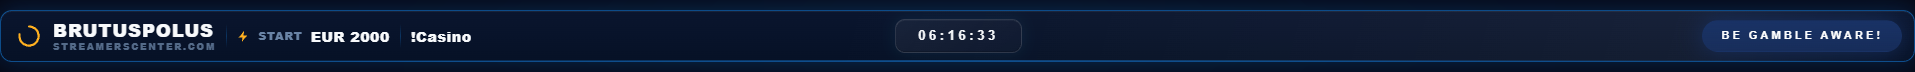
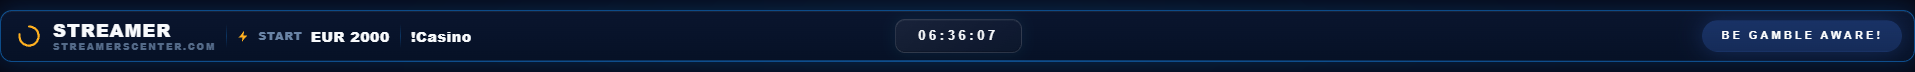
Refresh streamer widget screenshots

Changed region(s): [[0.0308, 0.3333, 0.1232, 0.5278], [0.493, 0.4167, 0.5238, 0.5556]]

diff --git a/src/components/OverlayCenter/editor/betterWidgetRegistry.jsx b/src/components/OverlayCenter/editor/betterWidgetRegistry.jsx
@@ -29,58 +29,76 @@ const MAX_OPACITY = 1;
 
 const MOCK_BONUSES = [
   {
-    id: "mock-wolf-gold",
-    slotName: "Wolf Gold",
+    id: "bdecf4b4-286a-46ac-b996-5a2fd8b0c45e",
+    slotName: "Gates Of Olympus 1000",
     imageUrl:
-      "https://images-cdn.softswiss.net/i/s2/pragmaticplay/WolfGold.png",
+      "https://encrypted-tbn0.gstatic.com/images?q=tbn:ANd9GcQ0dAEPtED0iG7rSoXV5PZhSEuuc_9oKLWyGPa-CscWrg&s=10",
     betSize: 4,
     payout: 136,
     opened: true,
     slot: {
       provider: "Pragmatic Play",
-      image: "https://images-cdn.softswiss.net/i/s2/pragmaticplay/WolfGold.png",
+      image:
+        "https://encrypted-tbn0.gstatic.com/images?q=tbn:ANd9GcQ0dAEPtED0iG7rSoXV5PZhSEuuc_9oKLWyGPa-CscWrg&s=10",
+      rtp: 96.5,
+      volatility: "high",
+      max_win_multiplier: 15000,
     },
   },
   {
-    id: "mock-medusa",
-    slotName: "Medusas Madness",
+    id: "fd03f022-8afe-43ca-b804-b49113445aff",
+    slotName: "Le Bandit",
     imageUrl:
-      "https://images-cdn.softswiss.net/i/s2/playngo/MedusasMadness.png",
+      "https://d1i1wfn7hj3mva.cloudfront.net/media/images/slots/portrait/hs/webp/hs-le-bandit.webp",
     betSize: 5,
-    payout: 0,
+    payout: 1840,
     opened: false,
     slot: {
-      provider: "Play'n GO",
-      image: "https://images-cdn.softswiss.net/i/s2/playngo/MedusasMadness.png",
+      id: "fd03f022-8afe-43ca-b804-b49113445aff",
+      name: "Le Bandit",
+      provider: "Hacksaw Gaming",
+      image:
+        "https://d1i1wfn7hj3mva.cloudfront.net/media/images/slots/portrait/hs/webp/hs-le-bandit.webp",
+      rtp: 96.34,
+      volatility: "medium",
+      max_win_multiplier: 10000,
     },
   },
   {
-    id: "mock-gates",
-    slotName: "Gates of Olympus",
+    id: "839997ff-344a-448c-876a-19c0c869ac49",
+    slotName: "Wanted Dead or a Wild",
     imageUrl:
-      "https://images-cdn.softswiss.net/i/s2/pragmaticplay/GatesOfOlympus1000.png",
+      "https://mediumrare.imgix.net/2c04ff5694af0adf12b483a79567814407c1a4fc943b4d1980f84367a1910874?q=85",
     betSize: 6,
     payout: 312,
     opened: true,
     isSuperBonus: true,
     slot: {
-      provider: "Pragmatic Play",
+      provider: "Hacksaw Gaming",
       image:
-        "https://images-cdn.softswiss.net/i/s2/pragmaticplay/GatesOfOlympus1000.png",
+        "https://mediumrare.imgix.net/2c04ff5694af0adf12b483a79567814407c1a4fc943b4d1980f84367a1910874?q=85",
+      rtp: 96.38,
+      volatility: "very_high",
+      max_win_multiplier: 12500,
     },
   },
   {
-    id: "mock-sugar",
-    slotName: "Sugar Rush 1000",
+    id: "033fb7ba-f0ed-4582-9bdf-cad4d242ed5d",
+    slotName: "Sweet Bonanza 1000",
     imageUrl:
-      "https://images-cdn.softswiss.net/i/s2/pragmaticplay/SugarRush1000.png",
+      "https://mediumrare.imgix.net/a77d914f12935f85ca574c3b52989b13cb48901ab8c55bdf326e1f2a177cbd97?&dpr=2&format=auto&auto=format&q=50",
     betSize: 3,
     payout: 0,
     opened: false,
     slot: {
+      id: "033fb7ba-f0ed-4582-9bdf-cad4d242ed5d",
+      name: "Sweet Bonanza 1000",
       provider: "Pragmatic Play",
       image:
-        "https://images-cdn.softswiss.net/i/s2/pragmaticplay/SugarRush1000.png",
+        "https://mediumrare.imgix.net/a77d914f12935f85ca574c3b52989b13cb48901ab8c55bdf326e1f2a177cbd97?&dpr=2&format=auto&auto=format&q=50",
+      rtp: 95.52,
+      volatility: "high",
+      max_win_multiplier: 25000,
     },
   },
 ];
@@ -147,9 +165,9 @@ const MOCK_WIDGET_CONFIGS = {
           player1: "Sofia",
           player2: "Rafa",
           slot1: {
-            name: "Sugar Rush 1000",
+            name: "Le Bandit",
             image:
-              "https://images-cdn.softswiss.net/i/s2/pragmaticplay/SugarRush1000.png",
+              "https://d1i1wfn7hj3mva.cloudfront.net/media/images/slots/portrait/hs/webp/hs-le-bandit.webp",
           },
           slot2: {
             name: "Wanted Dead or a Wild",
@@ -207,7 +225,7 @@ const MOCK_WIDGET_CONFIGS = {
     winner: "",
   },
   navbar: {
-    streamerName: "BRUTUSPOLUS",
+    streamerName: "STREAMER",
     motto: "streamerscenter.com",
     nowPlayingLabel: "Now Playing",
     showNowPlaying: true,
@@ -223,29 +241,43 @@ const MOCK_WIDGET_CONFIGS = {
     },
   },
   chat: {
+    live: true,
+    maxMessages: 10,
     twitchEnabled: false,
     youtubeEnabled: false,
     kickEnabled: false,
     __appearancePreviewMessages: [
-      { user: "miguel", text: "the hunt is live" },
-      { user: "arena", text: "!bet 2" },
-      { user: "secalive", text: "good luck everyone" },
-      { user: "chat", text: "that rtp bar is clean" },
+      { username: "STREAMER", message: "New bonus hunt is live." },
+      { username: "miguel", message: "good luck on Sweet Bonanza 1000" },
+      { username: "arena", message: "!bet 2" },
+      { username: "secalive", message: "that RTP bar looks clean" },
+      { username: "brutus", message: "open Gates next" },
+      { username: "modteam", message: "queue is full tonight" },
+      { username: "chat", message: "big multi incoming" },
+      { username: "viewer42", message: "Wanted paid already?" },
     ],
   },
   rtp_stats: {
     previewMode: true,
-    slotName: "Medusas Madness",
-    detectedSlotName: "Medusas Madness",
-    currentSlotName: "Medusas Madness",
-    provider: "Play'n GO",
-    providerName: "Play'n GO",
-    rtp: "96.20%",
-    rtpValue: "96.20%",
-    potential: "x5000",
-    maxWin: "x5000",
-    volatility: "High",
-    bestWin: "No personal best yet",
+    _cachedBestWin: {
+      slotId: "fd03f022-8afe-43ca-b804-b49113445aff",
+      slotName: "Le Bandit",
+      provider: "Hacksaw Gaming",
+      best_win: 1840,
+      best_multiplier: 368,
+    },
+    slotId: "fd03f022-8afe-43ca-b804-b49113445aff",
+    slotName: "Le Bandit",
+    detectedSlotName: "Le Bandit",
+    currentSlotName: "Le Bandit",
+    provider: "Hacksaw Gaming",
+    providerName: "Hacksaw Gaming",
+    rtp: 96.34,
+    rtpValue: "96.34%",
+    potential: "x10000",
+    maxWin: "x10000",
+    volatility: "Medium",
+    bestWin: "EUR 1,840",
   },
   background: {},
   slideshow_frame: {
@@ -864,9 +896,7 @@ function migrateLegacyShoutoutConfig(widgetType, rawConfig) {
     secondaryColor: "#1385e9",
     backgroundColor: "#081228",
     mutedColor:
-      rawConfig.mutedColor === "#a5b4c7"
-        ? "#8baacf"
-        : rawConfig.mutedColor,
+      rawConfig.mutedColor === "#a5b4c7" ? "#8baacf" : rawConfig.mutedColor,
     borderRadius: rawConfig.borderRadius === 16 ? 12 : rawConfig.borderRadius,
     borderWidth: rawConfig.borderWidth === 2 ? 1 : rawConfig.borderWidth,
     glowIntensity:

diff --git a/src/components/OverlayCenter/widgets/shared/betterWidgetStyles.jsx b/src/components/OverlayCenter/widgets/shared/betterWidgetStyles.jsx
@@ -3880,6 +3880,7 @@ export function BetterChatMessage({
     position: "relative",
     display: "grid",
     gridTemplateColumns: "34px minmax(0,1fr)",
+    alignItems: "start",
     gap: 9,
     margin: `${Math.max(2, Number(context.msgSpacing) || 2)}px 8px`,
     padding: "8px 10px",
@@ -3892,7 +3893,7 @@ export function BetterChatMessage({
       emphasized
         ? `0 0 ${effectGlow} ${alphaColor(rowAccent, 0.5)}, inset 0 1px 0 rgba(255,255,255,0.22), inset 0 -12px 24px ${alphaColor(rowAccent, 0.12)}`
         : `0 8px 22px rgba(0,0,0,0.22), inset 0 1px 0 rgba(255,255,255,0.05)`,
-    overflow: "hidden",
+    overflow: "visible",
     opacity: animationName === "none" ? 1 : 0,
     animation:
       animationName === "none"
@@ -3903,7 +3904,19 @@ export function BetterChatMessage({
     <div
       ref={rootRef}
       aria-hidden={!visible}
-      style={{ ...messageStyle, visibility: visible ? "visible" : "hidden" }}
+      style={{
+        ...messageStyle,
+        ...(visible
+          ? null
+          : {
+              position: "absolute",
+              left: 8,
+              right: 8,
+              width: "calc(100% - 16px)",
+              visibility: "hidden",
+              pointerEvents: "none",
+            }),
+      }}
       {...attrs("chat", c, rowPart)}
     >
       {animatedEffect ? (
@@ -3984,7 +3997,7 @@ export function BetterChatMessage({
           initials(msg.username || msg.user)
         )}
       </span>
-      <span style={{ minWidth: 0 }}>
+      <span style={{ minWidth: 0, overflow: "visible" }}>
         <span
           style={{ display: "flex", alignItems: "center", gap: 6, minWidth: 0 }}
         >
@@ -4027,8 +4040,9 @@ export function BetterChatMessage({
             display: "block",
             marginTop: 2,
             color: context.textColor,
-            lineHeight: context.msgLineHeight,
+            lineHeight: Math.max(1.25, Number(context.msgLineHeight) || 1.45),
             overflowWrap: "anywhere",
+            paddingBottom: 1,
           })}
           {...attrs("chat", c, "messageText")}
         >
